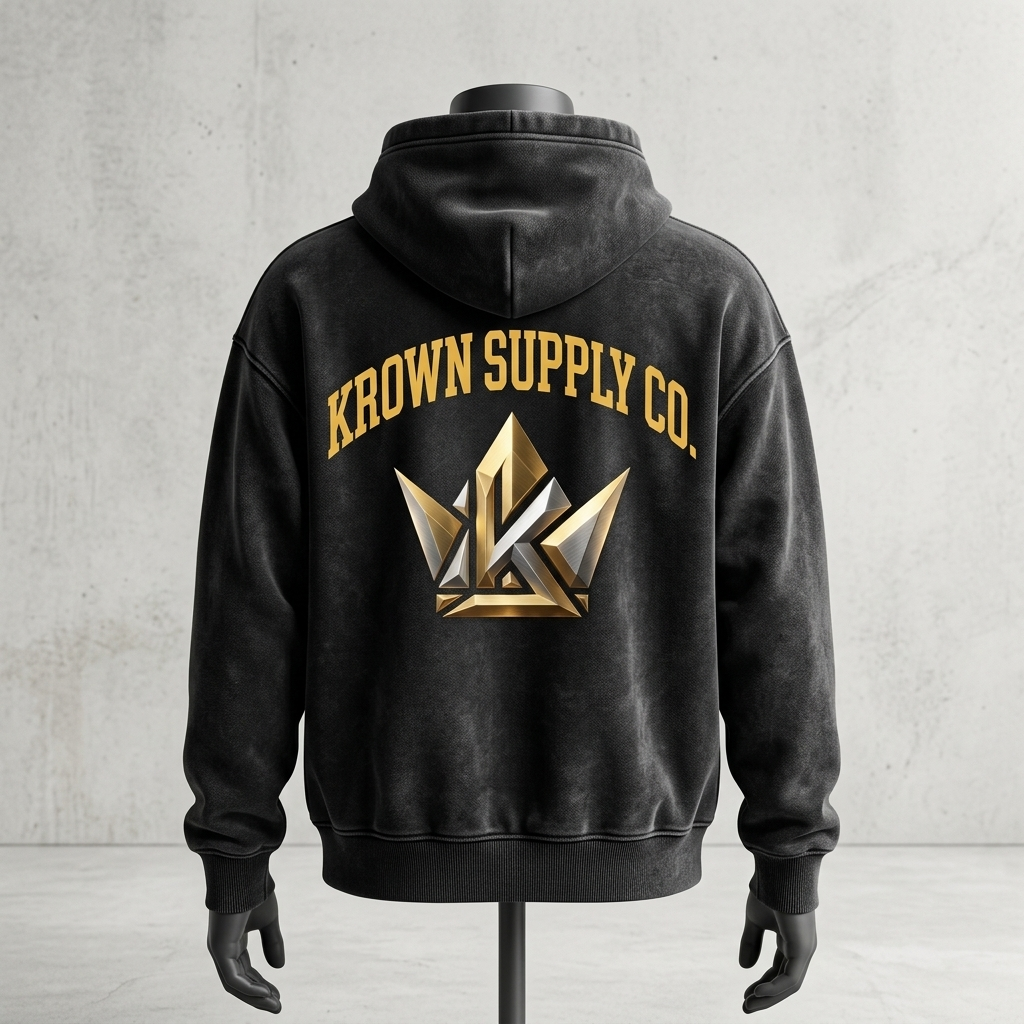
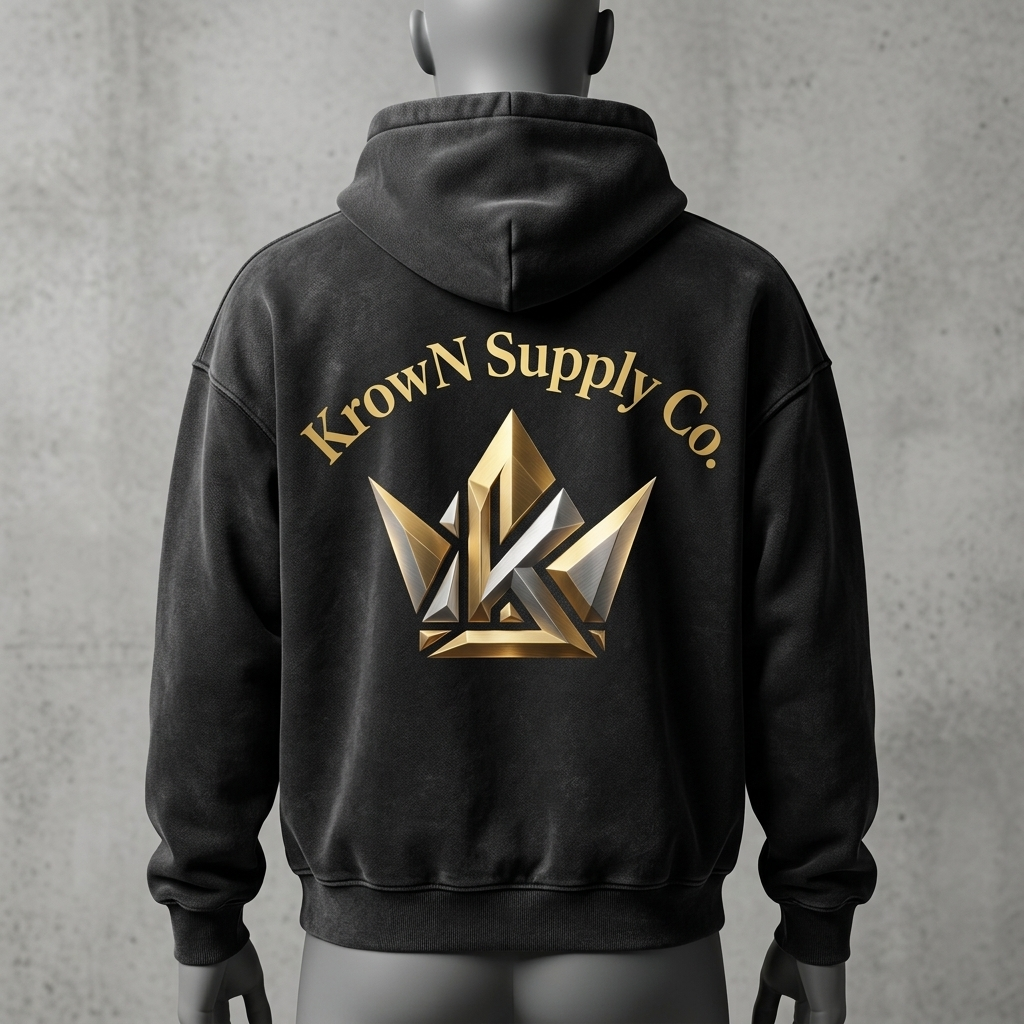
fix(hoodie): update back statement print to exact KrowN Supply Co. branding with cache-busting asset

diff --git a/src/services/printify.ts b/src/services/printify.ts
@@ -93,14 +93,14 @@ const INITIAL_MOCK_CATALOG: CatalogProduct[] = [
     id: 'krown-hoodie-premium',
     name: 'KrowN Supply Co. 480 GSM Heavyweight Streetwear Hoodie',
     slug: 'krown-supply-co-480gsm-heavyweight-streetwear-hoodie',
-    description: 'The pinnacle of luxury streetwear. Cut from ultra-heavyweight 480 GSM French terry cotton in vintage washed charcoal black with drop shoulders and an exaggerated crossover double-layered hood. Features our minimal metallic antique gold and brushed steel 3D geometric faceted K-crown brand emblem on the left chest, and a bold statement back print with clean arched "KROWN SUPPLY CO." typography and the official faceted 3D geometric K-crown brand emblem. Heavy split-stitch construction, thick ribbed cuffs and hem, and relaxed modern drape.',
+    description: 'The pinnacle of luxury streetwear. Cut from ultra-heavyweight 480 GSM French terry cotton in vintage washed charcoal black with drop shoulders and an exaggerated crossover double-layered hood. Features our minimal metallic antique gold and brushed steel 3D geometric faceted K-crown brand emblem on the left chest, and a bold statement back print with clean arched "KrowN Supply Co." typography and the official faceted 3D geometric K-crown brand emblem. Heavy split-stitch construction, thick ribbed cuffs and hem, and relaxed modern drape.',
     collection: 'KrowN Supply Co.',
     price: 88.00,
     baseCost: 28.00,
     printCost: 8.00,
     images: [
       '/images/products/krown-supply-premium-hoodie-front.jpg',
-      '/images/products/krown-boxy-heavy-hoodie-mineral-wash.jpg',
+      '/images/products/krown-heavyweight-hoodie-back-krown.jpg',
     ],
     variants: [
       { id: 2011, color: 'Vintage Washed Charcoal / Gold Crest', size: 'S', price: 88.00, sku: 'KSC-HD-480-S', isAvailable: true },
